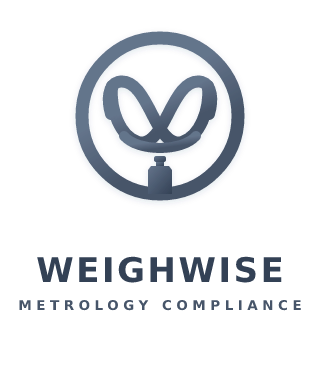
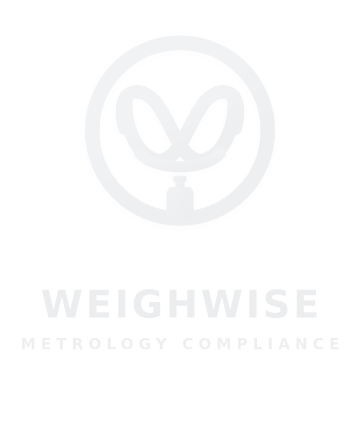
refactor: update watermark opacity and asset
Increase watermark opacity in the report viewer for better visibility and replace the asset file to maintain consistency.

diff --git a/src/services/export/watermarkAsset.ts b/src/services/export/watermarkAsset.ts
@@ -1,4 +1,4 @@
 // Authentic WeighWise Official Metrology Watermark Asset
-// Pre-rendered from /public/weighwise-logo.svg with 6.5% laboratory neutral opacity
[1 lines of base64/hex data omitted]
+// Pre-rendered from /public/weighwise-logo.svg with 9.5% laboratory neutral opacity
[1 lines of base64/hex data omitted]
 export const WEIGHWISE_LOGO_ASPECT_RATIO = 320 / 380; // 0.8421

diff --git a/src/components/reports/ReportViewer.tsx b/src/components/reports/ReportViewer.tsx
@@ -209,7 +209,7 @@ export const ReportViewer: React.FC<Props> = ({ reportId, onBack }) => {
         <div className="relative p-4 sm:p-6 md:p-8 space-y-6 sm:space-y-8 text-xs text-slate-800 overflow-hidden">
           {/* Subtle Authentic Centered Watermark */}
           <div
-            className="pointer-events-none select-none absolute inset-0 flex items-center justify-center z-0 opacity-[0.035] print:opacity-[0.05]"
+            className="pointer-events-none select-none absolute inset-0 flex items-center justify-center z-0 opacity-[0.065] print:opacity-[0.08]"
             aria-hidden="true"
           >
             <div className="flex flex-col items-center text-center max-w-xs">
